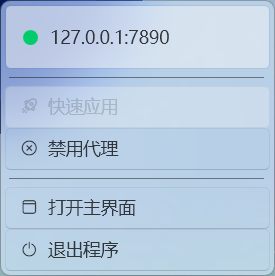
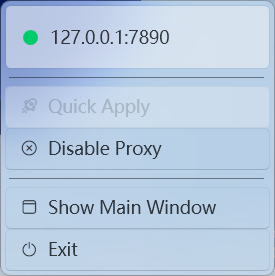
Update: v1.7.2,更新本地化、更新依赖

diff --git a/Readme.md b/Readme.md
@@ -14,27 +14,27 @@
 
 ## 界面截图
 
-1. 主界面（浅色模式）截图：
+1. 主界面（浅色模式 + 浅色Windows默认背景）截图：
 
 ![主界面（浅色模式）](Readme.md.Assets/screenshot1-1.png)
 
-2. 设置界面（浅色模式）截图：
+2. 设置界面（浅色模式 + 浅色Windows默认背景）截图：
 
 ![设置界面（浅色模式）](Readme.md.Assets/screenshot1-2.png)
 
-3. 系统托盘菜单（浅色模式）截图：
+3. 系统托盘菜单（浅色模式 + 浅色Windows默认背景）截图：
 
 ![系统托盘菜单（浅色模式）](Readme.md.Assets/screenshot1-3.png)
 
-4. 主界面（深色模式）截图：
+4. 主界面（深色模式 + 深色Windows默认背景）截图：
 
 ![主界面（深色模式）](Readme.md.Assets/screenshot2-1.png)
 
-5. 设置界面（深色模式）截图：
+5. 设置界面（深色模式 + 深色Windows默认背景）截图：
 
 ![设置界面（深色模式）](Readme.md.Assets/screenshot2-2.png)
 
-6. 系统托盘菜单（深色模式）截图：
+6. 系统托盘菜单（深色模式 + 深色Windows默认背景）截图：
 
 ![系统托盘菜单（深色模式）](Readme.md.Assets/screenshot2-3.png)
 
@@ -83,6 +83,14 @@
     - `win-arm64` 对于 ARM64 架构的 Windows 系统
 4. 发布的文件位于 `bin\Release\net10.0-windows\<ARCH>\publish\` 目录下。
 
+### 本地化
+
+本程序使用标准的 .resx 文件存储字符串资源并进行本地化，默认语言（英语）文件是 `Resources/l10n.resx`。可以通过添加新的 `l10n.*.resx` 文件来支持更多语言。
+
+目前，本程序不支持热切换语言。程序会在启动时读取系统语言，自动确定将使用的语言。当系统语言不受支持时，将回退到默认语言（英语）。
+
+当前支持语言：en, zh-Hans。
+
 ## 更新历史
 
 - v1.0.0 首个稳定版本。
@@ -127,6 +135,10 @@
     - 为系统托盘上下文菜单窗口增加半透明 backdrop 效果：Acrylic。
     - 更改程序界面中部分 UI 组件的背景效果与样式，以和新的 backdrop 效果相匹配。
 - v1.7.1 修复为托盘菜单引入半透明效果后，菜单窗口控件未全部隐藏的问题。
+- v1.7.2
+    - 更新依赖
+        - CommunityToolkit.Mvvm: 8.4.1 -> 8.4.2。
+    - 为所有 UI 字符串增加本地化支持，并完成了英语和中文（简体）翻译。
 
 ## 许可
 [MIT](LICENSE)
